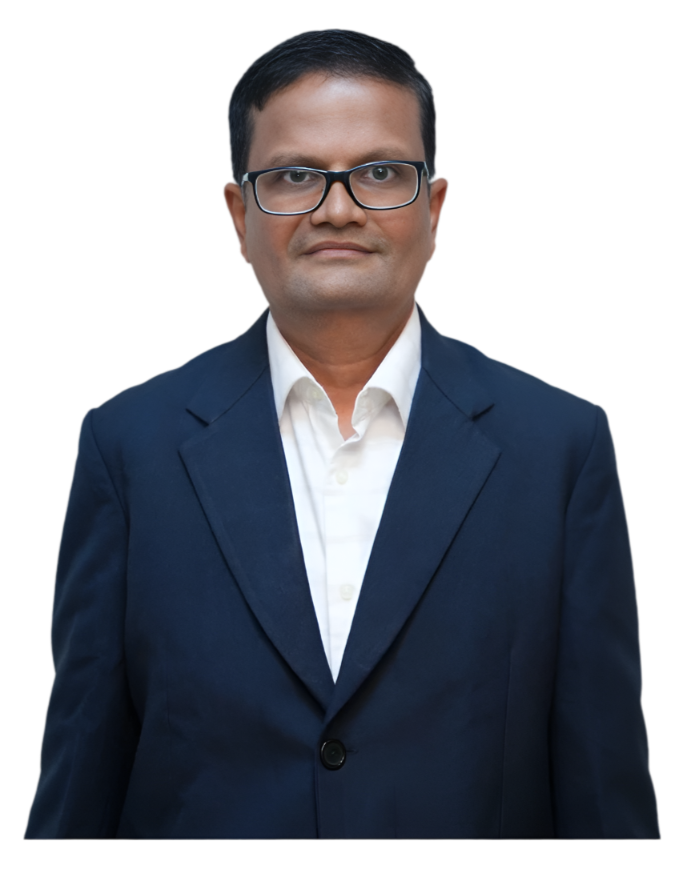
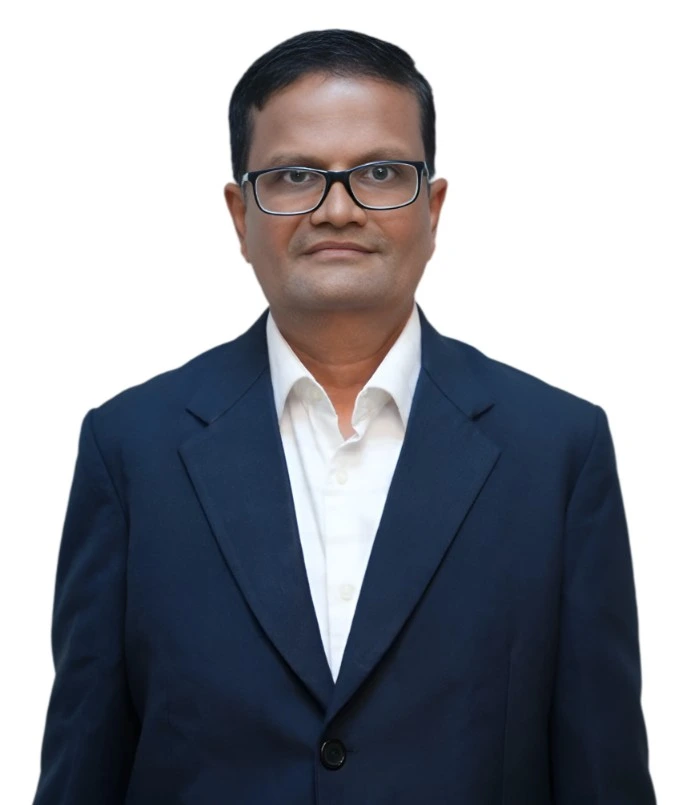
changes by Dr sankruti madam

diff --git a/index.html b/index.html
@@ -1152,7 +1152,7 @@
 
 				<div class="col-sm-6 col-md-3 team-single-info-02 item ">
 					<div class="teacher-body">
-						<img src="images/faculty_photo/jpg photos/DHARMENDRA TRIKAMLAL PATEL.jpg" alt="" class="img-responsive">
+						<img src="images/faculty_photo/DharmendraPatel.webp" alt="" class="img-responsive">
 						<div class="teachars-info">
 							<h3>Dr.Dharmendra Patel</h3>
 							<span>I/c. Principal</span>
@@ -1743,7 +1743,7 @@
 
 				<div class="col-sm-6 col-md-3 team-single-info-02 item ">
 					<div class="teacher-body">
-						<img src="images/faculty_photo/AMISHA  SHINGALA.webp" alt="" style="height:263px;"
+						<img src="images/faculty_photo/AMISHASHINGALA.webp" alt="" style="height:263px;"
 							class="img-responsive">
 						<div class="teachars-info">
 							<h3>Dr. Amisha Shingala</h3>
@@ -1983,7 +1983,7 @@
 
 				<div class="col-sm-6 col-md-3 team-single-info-02 item ">
 					<div class="teacher-body">
-						<img src="images/faculty_photo/ANJALI  MAHAVAR.webp" alt="" style="height:263px;"
+						<img src="images/faculty_photo/ANJALIMAHAVAR.webp" alt="" style="height:263px;"
 							class="img-responsive">
 						<div class="teachars-info">
 							<h3>Anjali Mahavar</h3>
@@ -2004,7 +2004,7 @@
 
 				<div class="col-sm-6 col-md-3 team-single-info-02 item ">
 					<div class="teacher-body">
-						<img src="images/faculty_photo/SANKETKUMAR PATEL.webp" alt="" style="height:263px;"
+						<img src="images/faculty_photo/SANKETKUMARPATEL.webp" alt="" style="height:263px;"
 							class="img-responsive">
 						<div class="teachars-info">
 							<h3>Sanketkumar Patel</h3>
@@ -2187,7 +2187,7 @@
 				</div>
 				<div class="col-sm-6 col-md-3 team-single-info-02 item ">
 					<div class="teacher-body">
-						<img src="images/faculty_photo/RONESHKUMAR GANGVANI.webp" alt="" style="height:263px;"
+						<img src="images/faculty_photo/RONESHKUMARGANGVANI.webp" alt="" style="height:263px;"
 							class="img-responsive">
 						<div class="teachars-info">
 							<h3>Ronesh Gangavani</h3>
